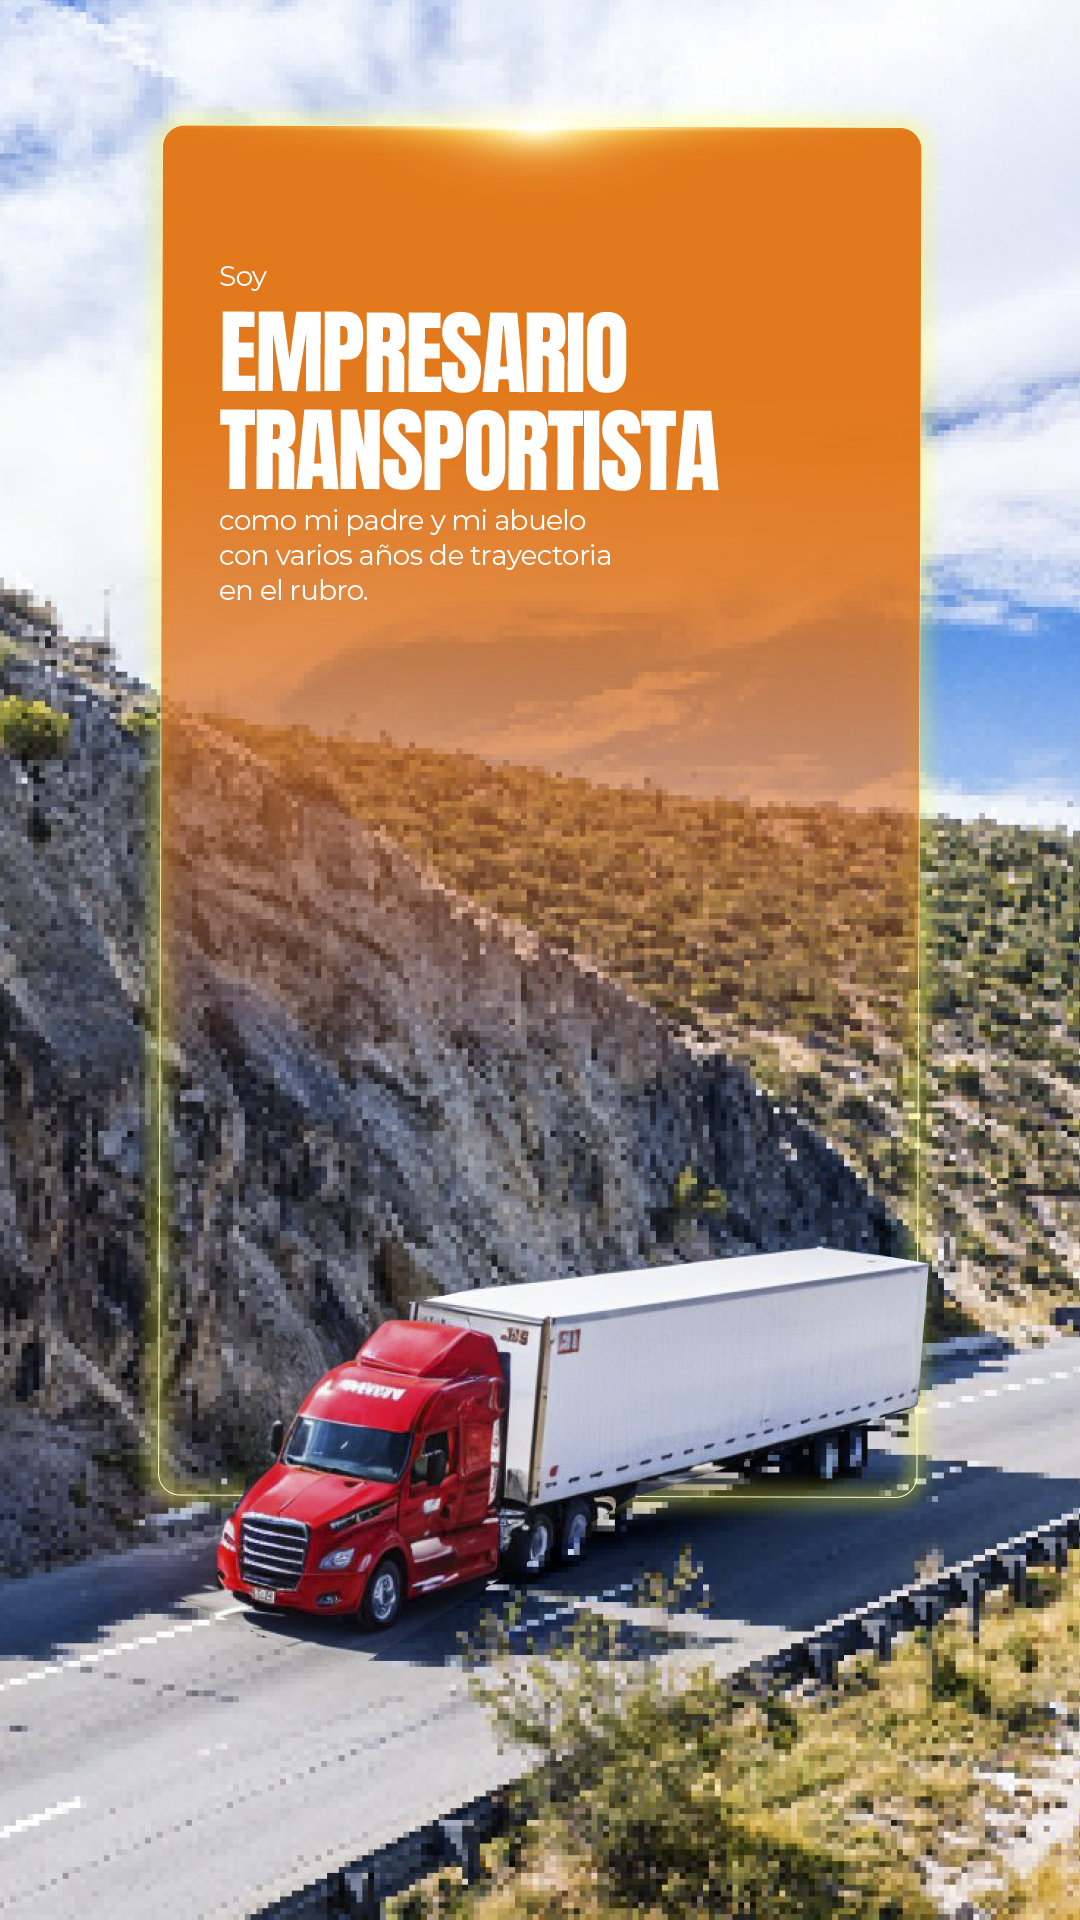
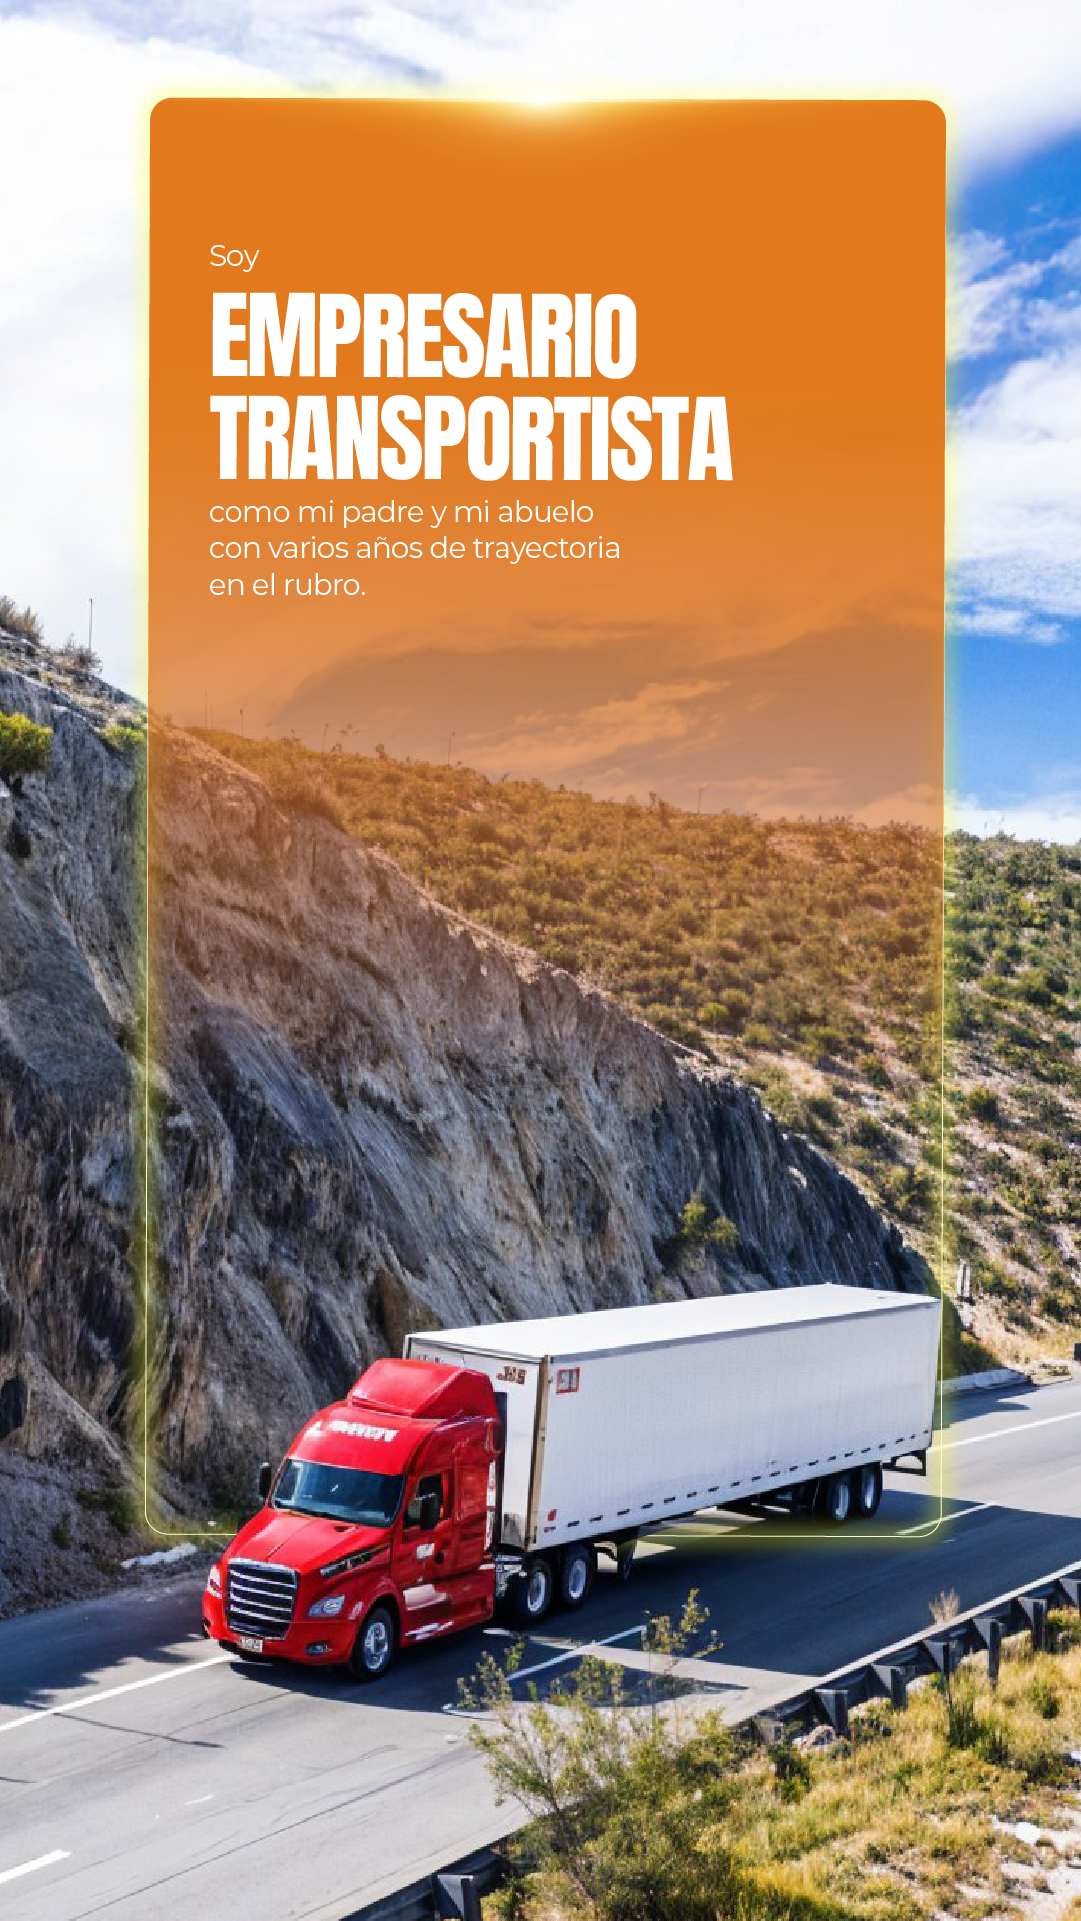
Fixed issues

diff --git a/src/components/Carousel.tsx b/src/components/Carousel.tsx
@@ -4,19 +4,15 @@ import "slick-carousel/slick/slick-theme.css";
 
 import Carousel1 from "@assets/WebCarousel1.webp"
 import Carousel1Mobile from "@assets/MobileCarousel1.webp"
-import TextCarousel1 from "@assets/CarouselText1.svg"
 
 import Carousel2 from "@assets/WebCarousel2.webp"
 import Carousel2Mobile from "@assets/MobileCarousel2.webp"
-import TextCarousel2 from "@assets/CarouselText2.svg"
 
 import Carousel3 from "@assets/WebCarousel3.webp"
 import Carousel3Mobile from "@assets/MobileCarousel3.webp"
-import TextCarousel3 from "@assets/CarouselText3.svg"
 
 import Carousel4 from "@assets/WebCarousel4.webp"
 import Carousel4Mobile from "@assets/MobileCarousel4.webp"
-import TextCarousel4 from "@assets/CarouselText4.svg"
 
 import Arrow from "@assets/ArrowOrange.svg"
 
@@ -68,9 +64,7 @@ const Carousel = () => {
           data.map(element => (
             <div className="flex! relative w-full">
               <img className="max-[650px]:hidden! w-full" src={element.img} alt="" />
-              <img className="max-[650px]:hidden! absolute top-0" src={element.text} alt="" />
               <img className="hidden! max-[650px]:block! w-full" src={element.imgMobile} alt="" />
-              <img className="hidden! max-[650px]:block! w-full absolute top-0 z-10" src={element.textMobile} alt="" />
             </div>
           ))
         }
